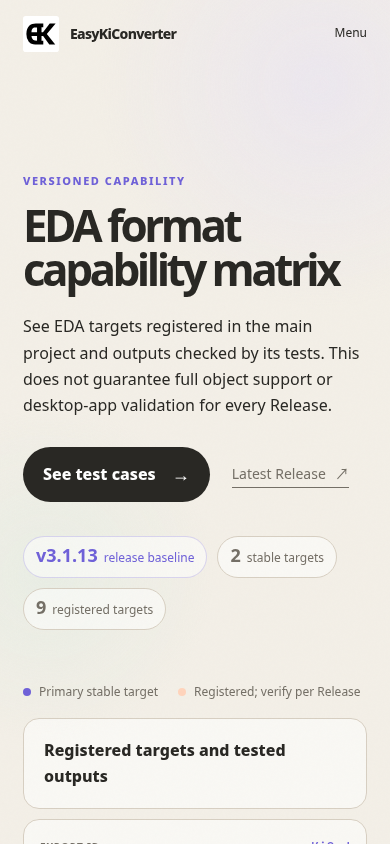
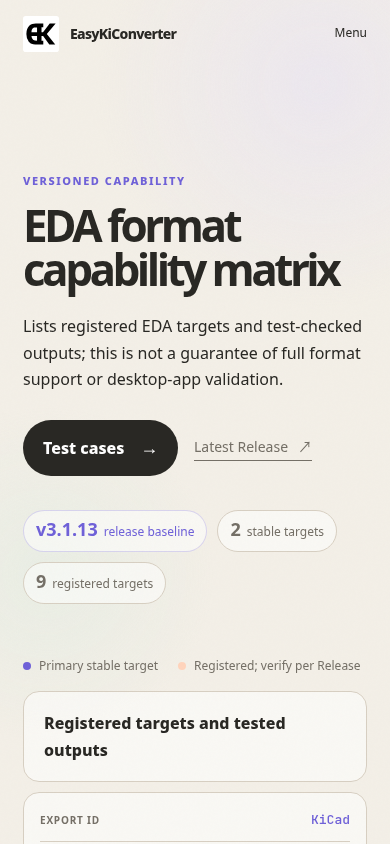
fix: 稳定双语移动端内容布局

diff --git a/tests/site.spec.ts b/tests/site.spec.ts
@@ -239,7 +239,7 @@ test('Chinese pages keep release guidance localized', async ({ page }) => {
     await expect(page.locator('main')).not.toContainText('Release');
   }
   await page.goto('/formats/', { waitUntil: 'domcontentloaded' });
-  await expect(page.locator('.format-matrix-actions .text-link')).toHaveText(/阅读当前发布页/);
+  await expect(page.locator('.format-matrix-actions .text-link')).toHaveText(/当前发布/);
   await expect(page.locator('.format-legend-registered')).toHaveText(/按发布版本验证/);
 });
 
@@ -526,9 +526,9 @@ test('format matrix offers evidence and release next steps in both languages', a
     const casesLink = page.locator('.format-matrix-actions .button-dark');
     const releaseLink = page.locator('.format-matrix-actions .text-link');
     await expect(casesLink).toHaveAttribute('href', /cases/);
-    await expect(casesLink).toContainText(/查看测试案例|See test cases/);
+    await expect(casesLink).toContainText(/查看测试案例|Test cases/);
     await expect(releaseLink).toHaveAttribute('href', /releases\/tag\/v3\.1\.13/);
-    await expect(releaseLink).toContainText(/阅读当前发布页|Latest Release/);
+    await expect(releaseLink).toContainText(/当前发布|Latest Release/);
     const summary = page.locator('.format-matrix .evidence-summary');
     await expect(summary).toContainText('v3.1.13');
     await expect(summary).toContainText(/2/);
@@ -544,21 +544,23 @@ test('format matrix offers evidence and release next steps in both languages', a
 });
 
 test('bilingual evidence-page actions stay on one row on mobile', async ({ page }) => {
-  await page.setViewportSize({ width: 390, height: 844 });
-  for (const [path, selector] of [
-    ['/formats/', '.format-matrix-actions'],
-    ['/en/formats/', '.format-matrix-actions'],
-    ['/cases/', '.case-studies-actions'],
-    ['/en/cases/', '.case-studies-actions'],
-  ]) {
-    await page.goto(path, { waitUntil: 'domcontentloaded' });
-    const centerOffset = await page.locator(selector).evaluate((container) => {
-      const [primary, secondary] = Array.from(container.children);
-      const first = primary.getBoundingClientRect();
-      const second = secondary.getBoundingClientRect();
-      return Math.abs(first.top + first.height / 2 - second.top - second.height / 2);
-    });
-    expect(centerOffset).toBeLessThan(2);
+  for (const width of [320, 390]) {
+    await page.setViewportSize({ width, height: 844 });
+    for (const [path, selector] of [
+      ['/formats/', '.format-matrix-actions'],
+      ['/en/formats/', '.format-matrix-actions'],
+      ['/cases/', '.case-studies-actions'],
+      ['/en/cases/', '.case-studies-actions'],
+    ]) {
+      await page.goto(path, { waitUntil: 'domcontentloaded' });
+      const centerOffset = await page.locator(selector).evaluate((container) => {
+        const [primary, secondary] = Array.from(container.children);
+        const first = primary.getBoundingClientRect();
+        const second = secondary.getBoundingClientRect();
+        return Math.abs(first.top + first.height / 2 - second.top - second.height / 2);
+      });
+      expect(centerOffset, `${path} at ${width}px`).toBeLessThan(2);
+    }
   }
 });
 
@@ -898,7 +900,7 @@ test('bilingual hero copy names target EDAs and generated library content', asyn
   await expect(page.locator('.hero-lede')).toContainText('符号、封装与 3D 模型');
 
   await page.goto('/en/', { waitUntil: 'domcontentloaded' });
-  await expect(page.locator('.hero-lede')).toContainText('KiCad or Altium');
+  await expect(page.locator('.hero-lede')).toContainText('KiCad / Altium');
   await expect(page.locator('.hero-lede')).toContainText('symbols, footprints & 3D models');
 });
 
